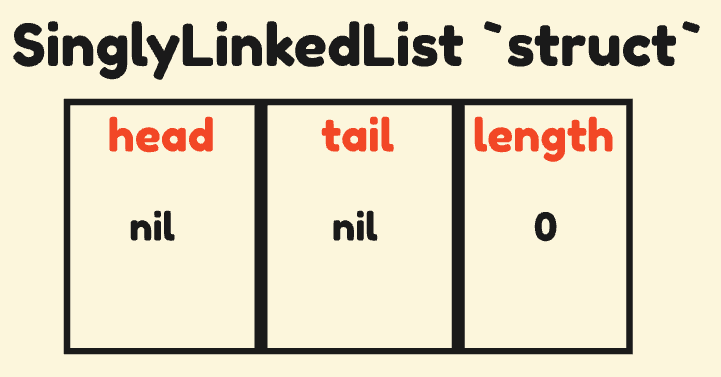
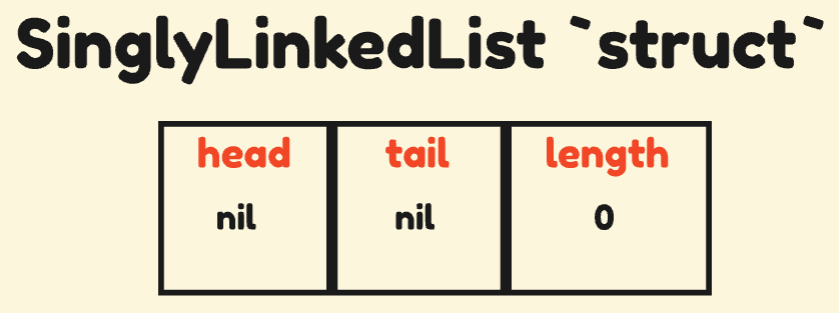
docs: finishing the documentation

Changed region(s): [[0.0, 0.0288, 1.0, 0.9489], [0.2441, 0.6326, 0.3051, 0.7476]]

diff --git a/collections/TUTORIAL.md b/collections/TUTORIAL.md
@@ -59,8 +59,8 @@ There are two ways to define custom error messages: with the `Errorf()` function
 package main
 
 import (
-    "fmt"
     "errors"
+    "fmt"
 )
 
 // with `fmt` pkg
@@ -249,7 +249,6 @@ import "linked-list/node"
 
 type SinglyLinkedList[T node.Number | string] struct {
     head   *node.Node[T]
-    tail   *node.Node[T]
     length int
 }
 ```
@@ -260,8 +259,8 @@ Or through a visual representation:
 <img width="265" src="../assets/SLL_struct.png" alt="Definition of singly linked list"/>
 </p>
 
-> In the modeling of this concept, I considered that the list allows for two pointers (one for each end),
-> the _head_ and _tail_ of the list. But it is completely feasible to implement it with a single node, the _head_.
+> In the modeling of this concept, I considered that the list allows only one pointers (just for the beginning),
+> the _head_ of the list. But it is completely feasible to implement it with two nodes, the _head_ and the _tail_.
 
 ### Construction
 
@@ -276,7 +275,6 @@ package collections
 func NewSinglyLinkedList[T node.Number | string]() *SinglyLinkedList[T] {
     return &SinglyLinkedList[T]{
         head: nil,
-        tail: nil,
         length: 0,
     }
 }
@@ -305,10 +303,13 @@ Now we can start implementing the list manipulation methods (`add`, `remove` and
 
 Let's create our first method in the `collections` package: the `Add` method!
 
-> One important point: in my implementation, I made some distinctions in the methods (for example, in the `Add` and `InsertAt` methods which have some differences), but here **there will be a single insertion method and a single deletion method**.
+> One important point: in my implementation, I made some distinctions in the methods (for example, in the `Add` and `InsertAt`
+> methods which have some differences), but here **there will be a single insertion method and a single deletion method**.
 
-The linked list allows for three cases of inserting an element: at the _head_, in the _middle_, or at the _tail_.
-Inserting at both ends is **_constant_** (that is, in terms of **_time complexity_**, it is **O(1)** -- if you're confused, look up [**Computational Complexity**](https://en.wikipedia.org/wiki/Computational_complexity) and [**Big-O Notation**](https://en.wikipedia.org/wiki/Big_O_notation)), while insertion in the middle is **_linear_**
+The linked list allows for three cases of inserting an element: at the _head_, in the _middle_, or at the _tail_ (which can treated the same way as the _middle_).
+Inserting at the head is **_constant_** (that is, in terms of **_time complexity_**, it is **O(1)** -- if you're confused, look up
+[**Computational Complexity**](https://en.wikipedia.org/wiki/Computational_complexity) and
+[**Big-O Notation**](https://en.wikipedia.org/wiki/Big_O_notation)), while insertion in the middle and at the tail the is **_linear_**
 (or, more precisely, **O(n)**).
 
 > Besides the code, I will also include visual representations. Since the pointers will store the addresses of structures,
@@ -325,12 +326,218 @@ Inserting at both ends is **_constant_** (that is, in terms of **_time complexit
 > <img width="250" src="../assets/with_arrows.png" alt="Using arrows as abstraction"/>
 > </p>
 
-...
+So, let's start with the _signature of our method_: what is needed? **I know we need to pass data to be stored**
+(which will consequently create a node within this method). But I can't just add a node after another
+(otherwise, it would be a **_queue_**), **I need to specify the desired position**.
+
+We identified two _requirements_:
+
+1. add a node to the list with the data passed as a parameter;
+2. Add that node at the specified position.
+
+Great, we have the following declaration from our method so far:
+
+```go
+package collections
+
+// ...
+
+func (list *SinglyLinkedList[T]) Add(index int, data T) <?> {
+    // ...
+}
+```
+
+> But does the method return anything? And if the entered position is invalid?
+> We can already come up with a solution.
+
+```go
+package collections
+
+import (
+    "linked-list/node"
+    "errors"
+)
+// ...
+
+func (list *SinglyLinkedList[T]) isValidIndexForAdd(index int) bool {
+    return index >= 0 && index <= list.length
+}
+
+func (list *SinglyLinkedList[T]) Add(index int, data T) error {
+    if !list.isValidIndexForAdd(index) {
+        return errors.New("error: out of range index")
+    }
+
+    // ...
+
+    return nil
+}
+```
+
+Let's start with the base case: _inserting at the head of the list_.
+
+The initial insertion is **constant**, but it happens in two cases:
+
+1. when the _length_ of the list is **0**; or
+2. when the _provided index_ is **0**.
+
+For the first case:
+
+<p align="center">
+<img width="250" src="../assets/empty.png" alt=""/>
+</p>
+
+<p align="center">
+<img width="250" src="../assets/empty(2).png" alt=""/>
+</p>
+
+Or for the second case:
+
+<p align="center">
+<img width="250" src="../assets/begin-insertion.png" alt=""/>
+</p>
+
+<p align="center">
+<img width="250" src="../assets/begin-insertion(2).png" alt=""/>
+</p>
+
+But the insertion in the middle (`i = 1, 2, ..., n-1`) or at the end (`i = n`) is **linear**, so they happen in
+a similar way -- therefore, the same steps are followed:
+
+1. the first step is **to reach the element before position _k_** (that is, at **_k-1_**) with a _**hook pointer**_
+   of type `Node`;
+2. already with the pointer of **the node to be inserted, point it to the _k-th_ node**;
+3. finally, **the element at _k-1_ now points from _k_ to the node to be inserted**.
+
+<p align="center">
+<img width="300" src="../assets/middle-insertion.png" alt=""/>
+</p>
+
+<p align="center">
+<img width="300" src="../assets/middle-insertion(2).png" alt=""/>
+</p>
+
+At the end, it's the same implementation, but the visual proof is different:
+
+<p align="center">
+<img width="250" src="../assets/end-insertion.png" alt=""/>
+</p>
+
+<p align="center">
+<img width="300" src="../assets/end-insertion(2).png" alt=""/>
+</p>
+
+Here is the sample code:
+
+```go
+package collections
+
+// ...
+
+func (list *SinglyLinkedList[T]) Add(index int, data T) error {
+    if !list.isValidIndexForAdd(index) {
+        return errors.New("error: out of range index")
+    }
+    newNode := NewNode[T](data)
+
+    if list.length == 0 {
+        list.head = newNode
+    } else if index == 0 {
+        newNode.Next = list.head
+        list.head = newNode
+    } else {
+         hook := list.searchPreviousNode(index)
+
+         newNode.Next = hook.Next
+         hook.Next = newNode
+    }
+
+    list.length++
+    return nil
+}
+
+// ...
+
+func (list *SinglyLinkedList[T]) searchPreviousNode(index int) *node.Node[T] {
+    searcher := list.head
+
+    for (index - 1 > 0) {
+        searcher = searcher.Next
+        index--
+    }
+    return searcher
+}
+```
 
 ### `Remove` Method
 
-...
+Create the method `Remove` _as an implementation exercise with visual proofs_, given the implementation
+of the method `Add`.
+
+Here is the sample code for comparison purposes:
+
+```go
+package collections
+
+func (list *SinglyLinkedList[T]) isValidIndexForRemove(index int) bool {
+    return index >= 0 && index < list.length
+}
+
+func (list *SinglyLinkedList[T]) Remove(index int) (T, error) {
+    var data T
+
+    if list.length == 0 {
+        return data, errors.New("error: list is empty")
+    }
+
+    if !list.isValidIndexForRemove(index) {
+        return data, errors.New("error: list is empty")
+    }
+    hook := list.searchPreviousNode(index)
+
+    if index == 0 {
+        list.head = hook.Next
+    } else {
+        hookAtPreviousIndex := hook
+        hook = hook.Next
+        hookAtPreviousIndex.Next = hook.Next
+    }
+    data = hook.Data
+    hook.Next = nil
+
+    list.length--
+    return data, nil
+}
+```
 
 ### `Print` Method
 
-...
+Unlike all the other methods, this one is quite simple: just go through the list (passing through each node) and print it data.
+
+The complete implementation is intuitive:
+
+```go
+package collections
+
+import (
+    "linked-list/node"
+    "errors"
+    "fmt"
+)
+
+// ...
+
+func (list *SinglyLinkedList[T]) Print() {
+    hook := list.head
+
+    for (hook != nil) {
+        fmt.Printf("%v, ", hook.Data)
+        hook = hook.Next
+    }
+    fmt.Printf("Length: %v\n", list.length)
+}
+```
+
+**We finally reached the end of this great journey!**
+
+I hope you've learned as much as I have during this process. Now it's up to you to explore this repository and make your own implementationns (and maybe even add a testing layer, just like a suggestion).
